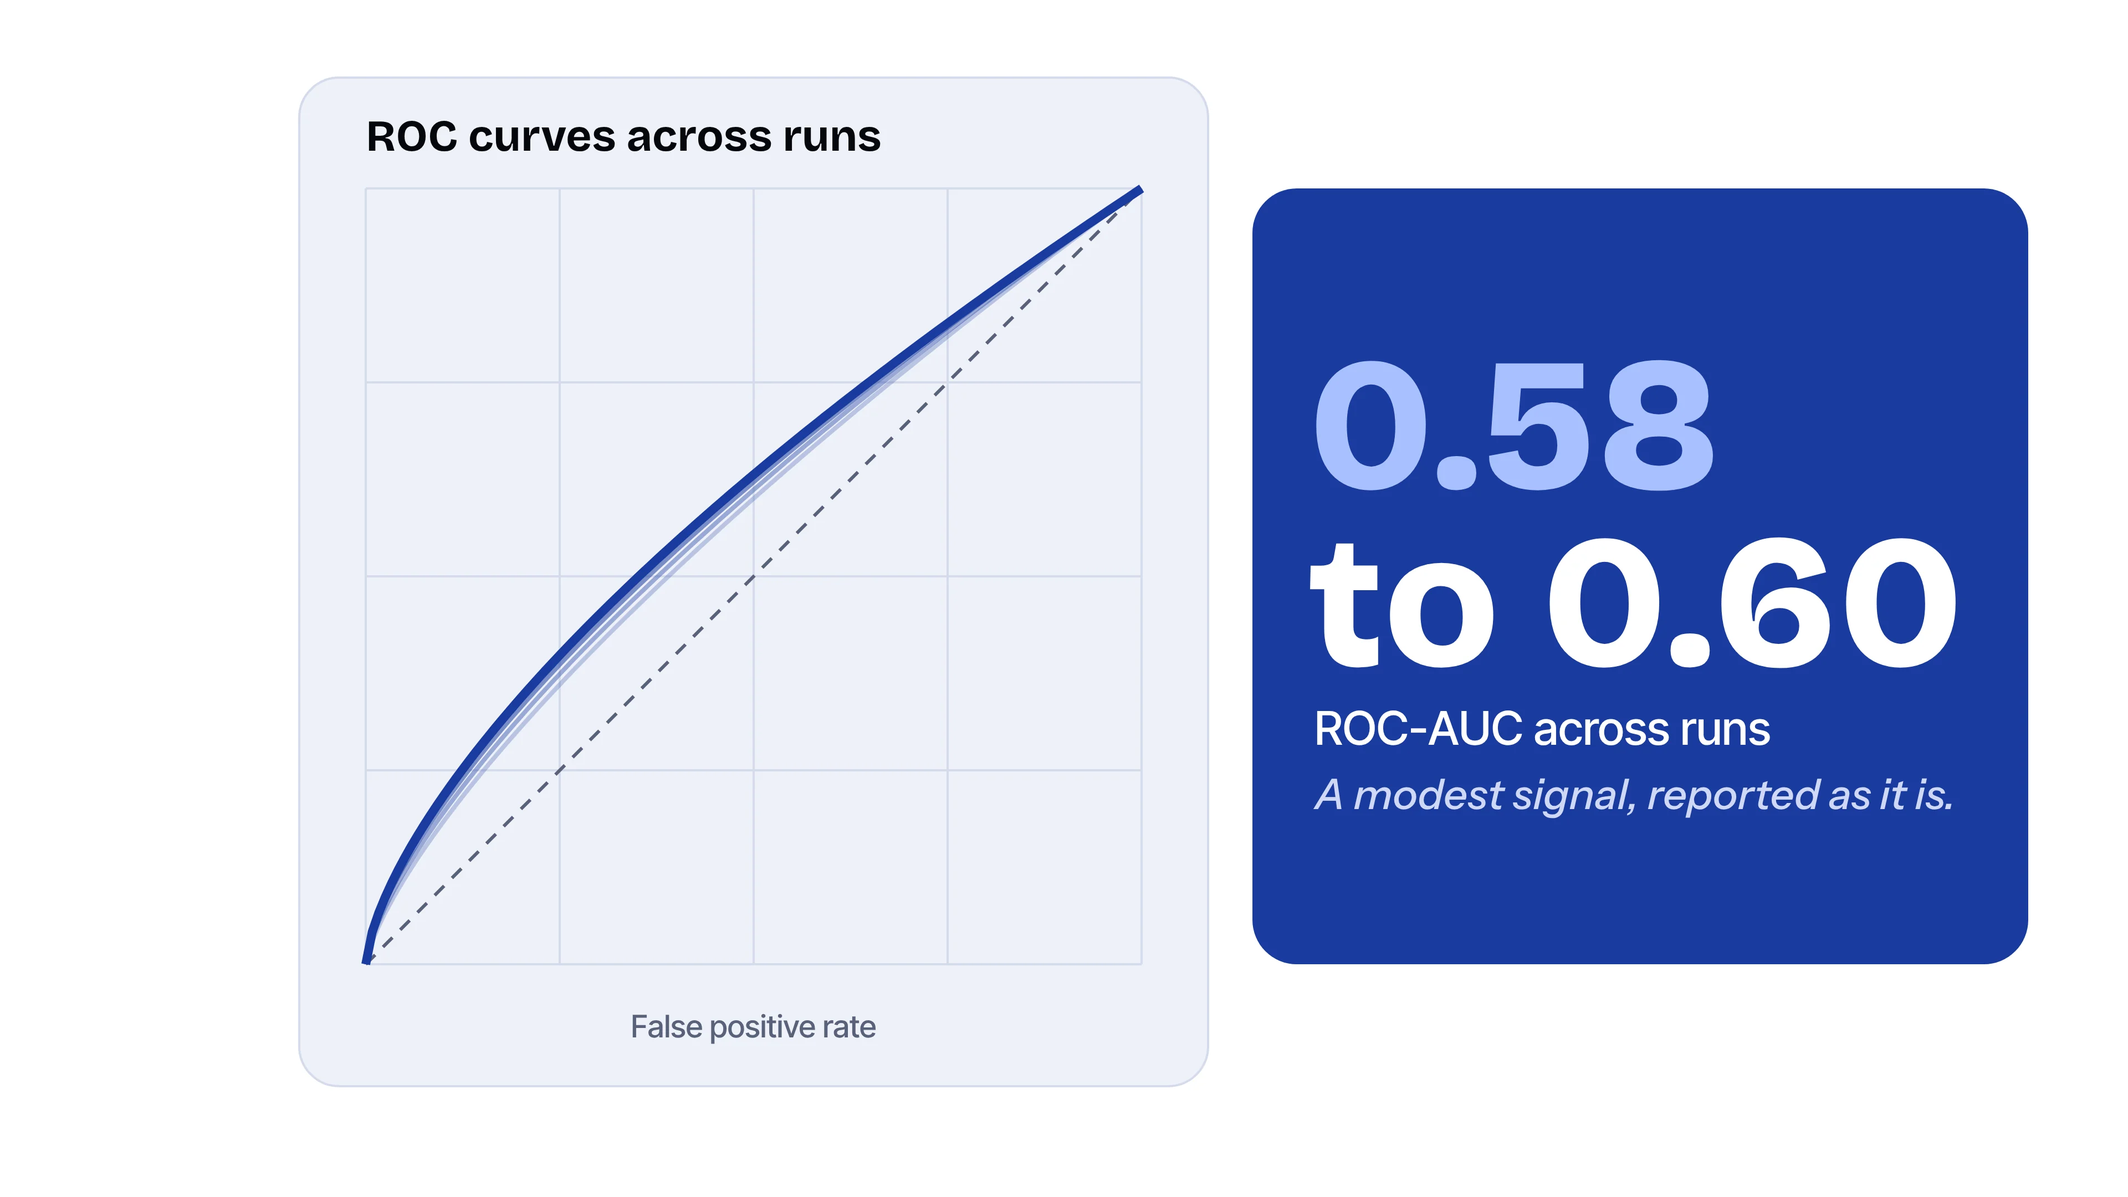
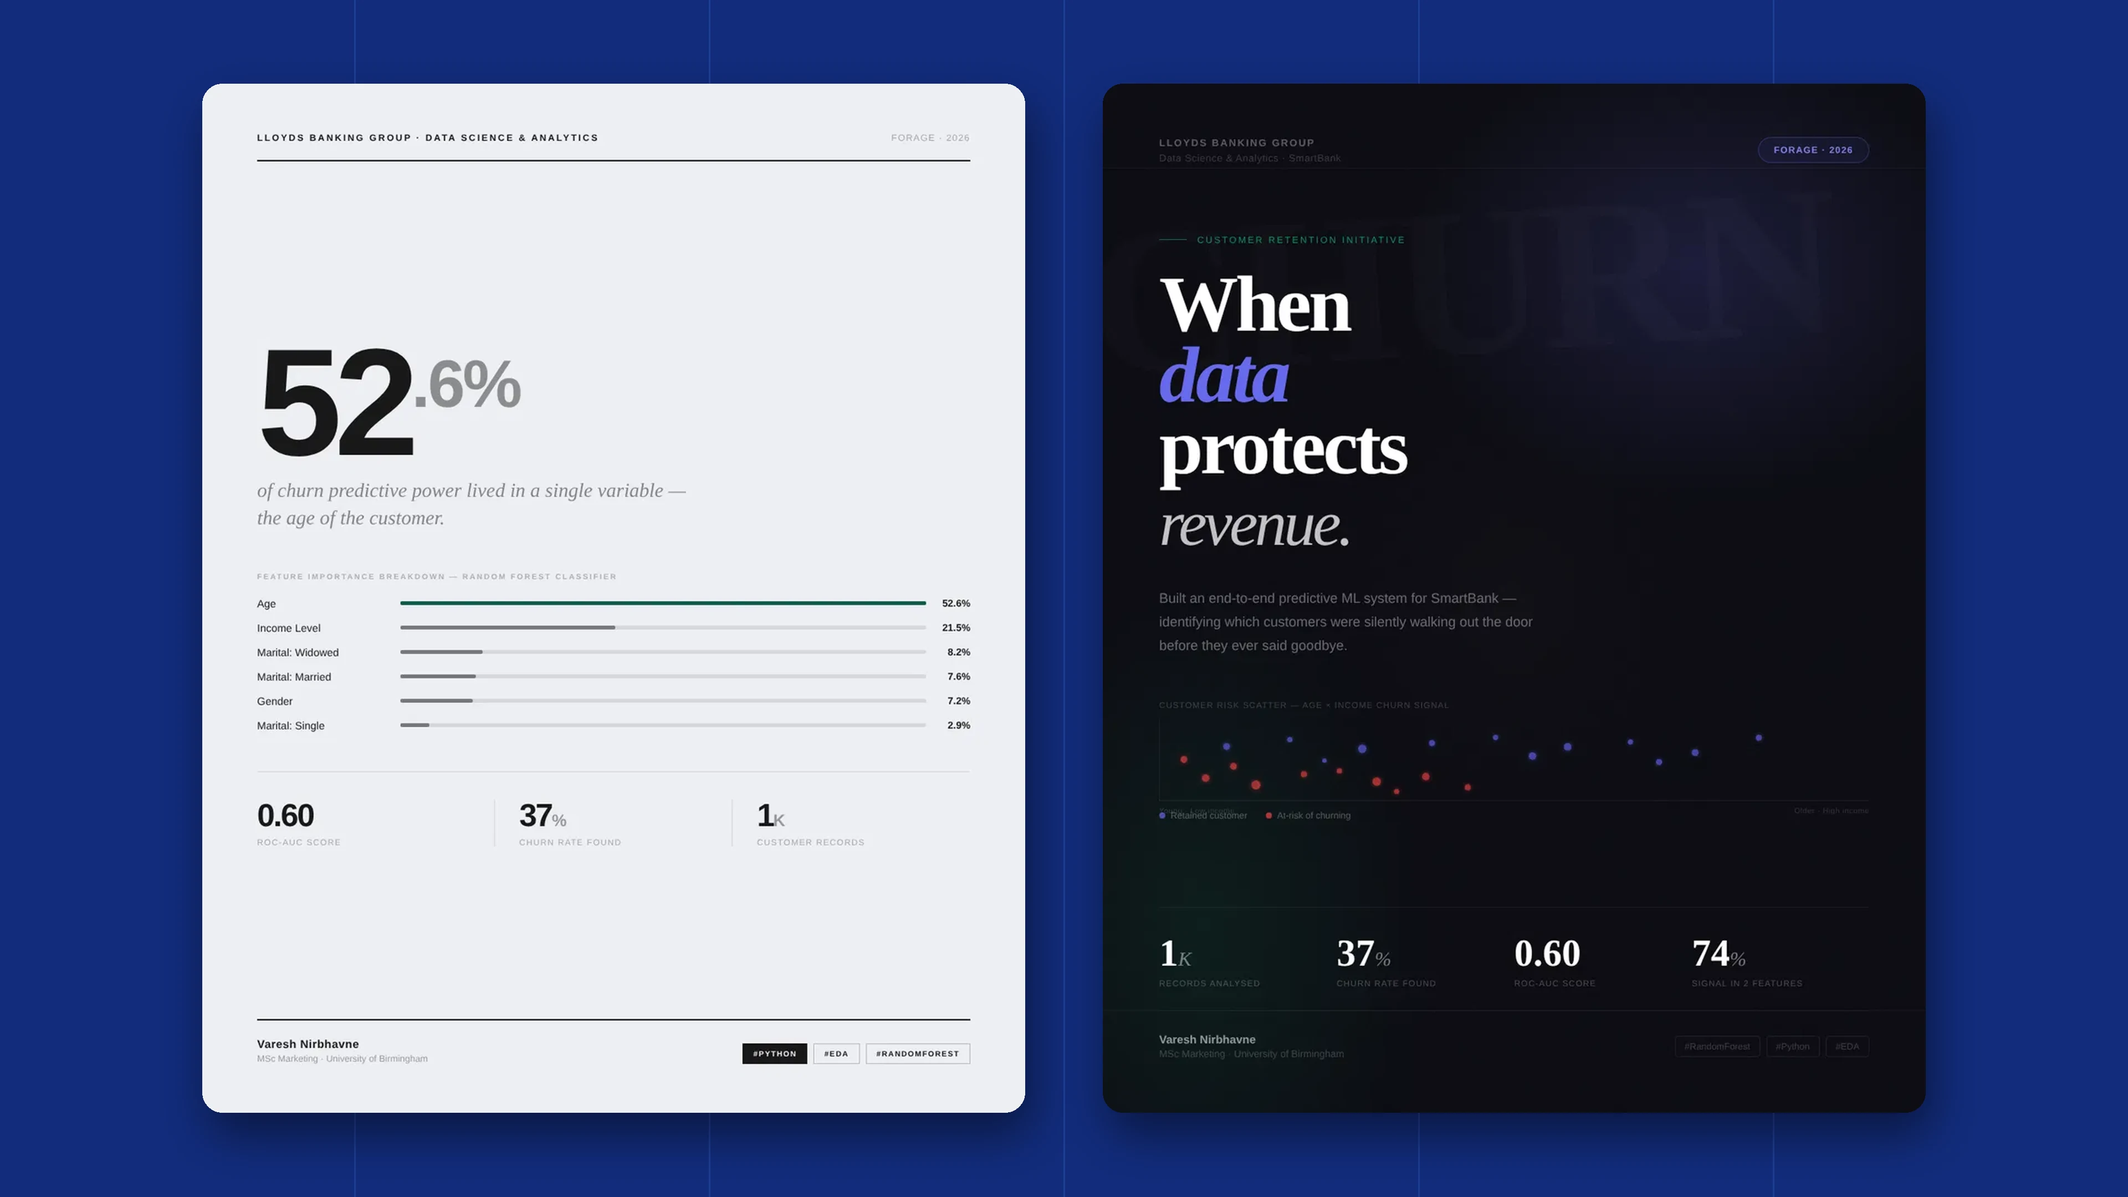
Use real Lloyds carousel slides, add BA certificate, correct 50m budget wording
Claude-Session: https://claude.ai/code/session_01HuEnPFYYzXcu2AzMyJQkWS

diff --git a/certifications.html b/certifications.html
@@ -53,7 +53,7 @@
 <section class="sec">
   <div class="wrap">
     <h2 class="h2" data-split>Certifications<em>.</em></h2>
-    <div class="certs" data-stagger><article class="cert"><div class="cert__img"><img src="assets/cert-google.webp" alt="Google Data Analytics Professional Certificate" loading="lazy"></div><span class="cert__type">Professional Certificate</span><h3>Google Data Analytics</h3><p class="cert__by">Google via Coursera, 5 Aug 2026</p><p>Nine courses covering the full analyst workflow, from asking the right question to cleaning, analysing and sharing data, with spreadsheets, SQL, Tableau and Python.</p><ul class="chips"><li>SQL</li><li>Python</li><li>Spreadsheets</li><li>Tableau</li><li>Data cleaning</li></ul></article><article class="cert"><span class="cert__type">Winner, team challenge</span><h3>Masters Consultancy Challenge 2026</h3><p class="cert__by">University of Birmingham with Turner &amp; Townsend, 3 Jul 2026</p><p>Part of Team Dynamite, the winning team in the most competitive year of the programme. The team proposed a fully costed, sustainable, future-ready research facility for the university.</p><ul class="chips"><li>Teamwork</li><li>Project management</li><li>Costing</li><li>Pitching</li></ul></article><article class="cert"><div class="cert__img"><img src="assets/cert-loreal.webp" alt="L&#x27;Oreal Brandstorm 2026 certificate of recognition" loading="lazy"></div><span class="cert__type">Recognition</span><h3>L&#x27;Oreal Brandstorm 2026</h3><p class="cert__by">L&#x27;Oreal, certificate of recognition</p><p>Took part in L&#x27;Oreal&#x27;s global youth innovation competition.</p><ul class="chips"><li>Innovation</li><li>Brand strategy</li></ul></article><article class="cert"><div class="cert__img"><img src="assets/cert-bcg.webp" alt="BCG Strategy Consulting job simulation certificate" loading="lazy"></div><span class="cert__type">Job simulation</span><h3>Strategy Consulting</h3><p class="cert__by">BCG via Forage, 1 Jun 2026</p><p>Market research, consumer survey design, financial modelling and data analysis, then summarising the findings for a client audience.</p><ul class="chips"><li>Market research</li><li>Survey design</li><li>Financial modelling</li><li>Data analysis</li></ul></article><article class="cert"><div class="cert__img"><img src="assets/cert-quantium.webp" alt="Quantium Data Analytics job simulation certificate" loading="lazy"></div><span class="cert__type">Job simulation</span><h3>Data Analytics</h3><p class="cert__by">Quantium via Forage, 23 May 2026</p><p>Data preparation and customer analytics, experimentation and uplift testing, then turning the analysis into a commercial recommendation.</p><ul class="chips"><li>Customer analytics</li><li>Uplift testing</li><li>Experimentation</li></ul></article><article class="cert"><div class="cert__img"><img src="assets/cert-lloyds.webp" alt="Lloyds Banking Group Data Science job simulation certificate" loading="lazy"></div><span class="cert__type">Job simulation</span><h3>Data Science</h3><p class="cert__by">Lloyds Banking Group via Forage, 24 May 2026</p><p>Data gathering and exploratory analysis, then building a machine learning model and framing the result for a business audience.</p><ul class="chips"><li>Python</li><li>EDA</li><li>Machine learning</li></ul></article><article class="cert"><span class="cert__type">Job simulation</span><h3>Data Analytics</h3><p class="cert__by">Deloitte via Forage, 2026</p><p>Worked a client-style dataset end to end, building a dashboard to spot the signal and classifying the data behind a business question.</p><ul class="chips"><li>Tableau</li><li>Excel</li><li>Data classification</li></ul></article><article class="cert"><span class="cert__type">Job simulation</span><h3>Data Science</h3><p class="cert__by">British Airways via Forage, 2026</p><p>Scraped and analysed customer reviews for sentiment, then built a predictive model to understand what drives a booking.</p><ul class="chips"><li>Python</li><li>Web scraping</li><li>Sentiment analysis</li><li>Modelling</li></ul></article></div>
+    <div class="certs" data-stagger><article class="cert"><div class="cert__img"><img src="assets/cert-google.webp" alt="Google Data Analytics Professional Certificate" loading="lazy"></div><span class="cert__type">Professional Certificate</span><h3>Google Data Analytics</h3><p class="cert__by">Google via Coursera, 5 Aug 2026</p><p>Nine courses covering the full analyst workflow, from asking the right question to cleaning, analysing and sharing data, with spreadsheets, SQL, Tableau and Python.</p><ul class="chips"><li>SQL</li><li>Python</li><li>Spreadsheets</li><li>Tableau</li><li>Data cleaning</li></ul></article><article class="cert"><span class="cert__type">Winner, team challenge</span><h3>Masters Consultancy Challenge 2026</h3><p class="cert__by">University of Birmingham with Turner &amp; Townsend, 3 Jul 2026</p><p>Part of Team Dynamite, the winning team in the most competitive year of the programme. The team proposed a fully costed, sustainable, future-ready research facility for the university.</p><ul class="chips"><li>Teamwork</li><li>Project management</li><li>Costing</li><li>Pitching</li></ul></article><article class="cert"><div class="cert__img"><img src="assets/cert-loreal.webp" alt="L&#x27;Oreal Brandstorm 2026 certificate of recognition" loading="lazy"></div><span class="cert__type">Recognition</span><h3>L&#x27;Oreal Brandstorm 2026</h3><p class="cert__by">L&#x27;Oreal, certificate of recognition</p><p>Took part in L&#x27;Oreal&#x27;s global youth innovation competition.</p><ul class="chips"><li>Innovation</li><li>Brand strategy</li></ul></article><article class="cert"><div class="cert__img"><img src="assets/cert-bcg.webp" alt="BCG Strategy Consulting job simulation certificate" loading="lazy"></div><span class="cert__type">Job simulation</span><h3>Strategy Consulting</h3><p class="cert__by">BCG via Forage, 1 Jun 2026</p><p>Market research, consumer survey design, financial modelling and data analysis, then summarising the findings for a client audience.</p><ul class="chips"><li>Market research</li><li>Survey design</li><li>Financial modelling</li><li>Data analysis</li></ul></article><article class="cert"><div class="cert__img"><img src="assets/cert-quantium.webp" alt="Quantium Data Analytics job simulation certificate" loading="lazy"></div><span class="cert__type">Job simulation</span><h3>Data Analytics</h3><p class="cert__by">Quantium via Forage, 23 May 2026</p><p>Data preparation and customer analytics, experimentation and uplift testing, then turning the analysis into a commercial recommendation.</p><ul class="chips"><li>Customer analytics</li><li>Uplift testing</li><li>Experimentation</li></ul></article><article class="cert"><div class="cert__img"><img src="assets/cert-lloyds.webp" alt="Lloyds Banking Group Data Science job simulation certificate" loading="lazy"></div><span class="cert__type">Job simulation</span><h3>Data Science</h3><p class="cert__by">Lloyds Banking Group via Forage, 24 May 2026</p><p>Data gathering and exploratory analysis, then building a machine learning model and framing the result for a business audience.</p><ul class="chips"><li>Python</li><li>EDA</li><li>Machine learning</li></ul></article><article class="cert"><span class="cert__type">Job simulation</span><h3>Data Analytics</h3><p class="cert__by">Deloitte via Forage, 2026</p><p>Worked a client-style dataset end to end, building a dashboard to spot the signal and classifying the data behind a business question.</p><ul class="chips"><li>Tableau</li><li>Excel</li><li>Data classification</li></ul></article><article class="cert"><div class="cert__img"><img src="assets/cert-ba.webp" alt="British Airways Data Science job simulation certificate of completion, 9 May 2026" loading="lazy"></div><span class="cert__type">Job simulation</span><h3>Data Science</h3><p class="cert__by">British Airways via Forage, 2026</p><p>Modelled lounge eligibility at Heathrow Terminal 3 and predicted customer buying behaviour. Completed 9 May 2026.</p><ul class="chips"><li>Python</li><li>Modelling</li><li>Customer behaviour</li></ul></article></div>
   </div>
 </section>
 <a class="next" href="tools.html" data-label="Tools" ><small>Next</small><strong>Try the tools</strong></a>

diff --git a/project-lloyds.html b/project-lloyds.html
@@ -43,12 +43,12 @@
 </section>
 <section class="sec">
   <div class="wrap">
-    <figure class="shot" data-img-in><img src="assets/lloyds.webp" alt="Illustrative visual: ROC curves above a diagonal baseline" width="3840" height="2160"><figcaption>Illustrative visual, drawn for this page. Not a screenshot of the real dashboard.</figcaption></figure>
-    
+    <figure class="shot" data-img-in><img src="assets/lloyds.webp" alt="The two LinkedIn carousel slides from the churn project, one light and one dark" width="3840" height="2160"><figcaption>The two LinkedIn carousel slides from the project, shown as published.</figcaption></figure>
+    <ul class="pmetrics" data-stagger><li><b>37%</b><span>churn rate in the 1K customer records</span></li><li><b>52.6%</b><span>of feature importance sits in age</span></li><li><b>0.60</b><span>ROC-AUC, honest and modest</span></li></ul>
     <div class="pcols" data-stagger>
       <div><h3>The question</h3><p>Which customers are most at risk of churning, and how much can a model genuinely tell us?</p></div>
       <div><h3>What I did</h3><ul><li>Prepared the customer data with BigQuery SQL.</li><li>Trained a Random Forest classifier to estimate churn risk.</li><li>Built Tableau views to show risk across customer groups.</li><li>Packaged the results as LinkedIn carousel assets.</li></ul></div>
-      <div><h3>What I found</h3><ul><li>ROC-AUC landed between 0.576 and 0.601 across runs.</li><li>That is only a little better than chance, so the model is useful for ranking risk, not for confident calls on a single customer.</li></ul></div>
+      <div><h3>What I found</h3><ul><li>ROC-AUC landed between 0.576 and 0.601 across runs.</li><li>Age alone carried 52.6% of feature importance, and age plus income carried about 74% of the signal.</li><li>That is only a little better than chance, so the model is useful for ranking risk, not for confident calls on a single customer.</li></ul></div>
     </div>
     <div class="pnote" data-reveal><h3>Why I show it anyway</h3><p>I would rather show a modest result clearly than dress it up. The sensible next step is better features and a cost-based view of which customers are worth contacting. Completed through the Lloyds Banking Group Data Science virtual experience on Forage. Not affiliated with or endorsed by Lloyds Banking Group.</p></div>
     <ul class="chips pchips"><li>Random Forest</li><li>BigQuery SQL</li><li>Tableau</li><li>Churn analysis</li></ul>

diff --git a/experience.html b/experience.html
@@ -47,7 +47,7 @@
         <h3>Strategic Consultant, Challenge Winner</h3>
         <p class="job__org">Turner &amp; Townsend</p>
         <p class="job__ctx">Part of the winning team in the University of Birmingham Masters Consultancy Challenge, run with Turner &amp; Townsend.</p>
-        <ul class="job__pts"><li>Built the <b>financial model behind a £50m infrastructure strategy</b>, checking every input and assumption so the logic survived live challenge.</li><li>Presented findings and recommendations to <b>senior partners</b> and fielded Q&amp;A, translating dense analysis for a mixed audience.</li><li>Beat competing university teams to <b>first place</b> on the strength of the numbers, not the slides.</li></ul>
+        <ul class="job__pts"><li>Built the <b>financial model for a fully costed research facility proposal</b> within a £50m budget constraint, checking every input and assumption so the logic survived live challenge.</li><li>Presented findings and recommendations to <b>senior partners</b> and fielded Q&amp;A, translating dense analysis for a mixed audience.</li><li>Beat competing university teams to <b>first place</b> on the strength of the numbers, not the slides.</li></ul>
         <ul class="chips"><li>Financial modelling</li><li>Excel</li><li>Scenario analysis</li><li>Stakeholder communication</li></ul>
       </div>
     </article>

diff --git a/index.html b/index.html
@@ -136,7 +136,7 @@
         <div><h3 class="scard__title">Customer churn model</h3><p class="scard__short">Predicting who leaves a bank, honestly</p></div>
         <div class="scard__foot"><span class="scard__tools">BigQuery SQL, Random Forest, Tableau</span><span class="scard__go">View case study <span aria-hidden="true">&nearr;</span></span></div>
       </div>
-      <div class="scard__img"><img src="assets/lloyds.webp" alt="Illustrative visual: ROC curves above a diagonal baseline" width="3840" height="2160" loading="lazy"></div>
+      <div class="scard__img"><img src="assets/lloyds.webp" alt="The two LinkedIn carousel slides from the churn project, one light and one dark" width="3840" height="2160" loading="lazy"></div>
     </a><a class="scard scard--1" style="--i:4" href="project-quantium.html" data-label="Did the trial stores really lift sales?">
       <div class="scard__copy">
         <span class="scard__no">05<small>/ 06</small></span>

diff --git a/projects.html b/projects.html
@@ -86,7 +86,7 @@
       <span class="prow__thumb"><img src="assets/starbucks.webp" alt="" loading="lazy"></span>
     </a>
     </div>
-    <p class="sec-note">The Revolut, F1 and Netflix pages show visuals from the real work. The Lloyds, Quantium and Starbucks pages use illustrative artwork, and each one is labelled as such.</p>
+    <p class="sec-note">The Revolut, F1, Netflix and Lloyds pages show visuals from the real work. The Quantium and Starbucks pages use illustrative artwork, and each one is labelled as such.</p>
   </div>
 </section>
 <a class="next" href="about.html" data-label="About" ><small>Next</small><strong>About me</strong></a>

diff --git a/build.py b/build.py
@@ -102,8 +102,8 @@ PROJECTS = [
     dict(
         slug="lloyds", theme="green", title="Customer churn model", short="Predicting who leaves a bank, honestly",
         tools="BigQuery SQL, Random Forest, Tableau", year="2026", status="Completed", done=True,
-        img="assets/lloyds.webp", alt="Illustrative visual: ROC curves above a diagonal baseline", tall=False,
-        cap="Illustrative visual, drawn for this page. Not a screenshot of the real dashboard.",
+        img="assets/lloyds.webp", alt="The two LinkedIn carousel slides from the churn project, one light and one dark", tall=False,
+        cap="The two LinkedIn carousel slides from the project, shown as published.",
         lede="Predicting who will leave a bank is a ranking problem more than a prediction problem. This project treats it that way, and is honest about how much the model can say.",
         q="Which customers are most at risk of churning, and how much can a model genuinely tell us?",
         did=[
@@ -114,9 +114,10 @@ PROJECTS = [
         ],
         found=[
             "ROC-AUC landed between 0.576 and 0.601 across runs.",
+            "Age alone carried 52.6% of feature importance, and age plus income carried about 74% of the signal.",
             "That is only a little better than chance, so the model is useful for ranking risk, not for confident calls on a single customer.",
         ],
-        metrics=[],
+        metrics=[("37%", "churn rate in the 1K customer records"), ("52.6%", "of feature importance sits in age"), ("0.60", "ROC-AUC, honest and modest")],
         note_h="Why I show it anyway",
         note="I would rather show a modest result clearly than dress it up. The sensible next step is better features and a cost-based view of which customers are worth contacting. Completed through the Lloyds Banking Group Data Science virtual experience on Forage. Not affiliated with or endorsed by Lloyds Banking Group.",
         tags=["Random Forest", "BigQuery SQL", "Tableau", "Churn analysis"],
@@ -169,7 +170,7 @@ PROJECTS = [
 JOBS = [
     dict(when="Jun to Jul 2026", place="Birmingham", role="Strategic Consultant, Challenge Winner", org="Turner & Townsend",
          ctx="Part of the winning team in the University of Birmingham Masters Consultancy Challenge, run with Turner & Townsend.",
-         pts=["Built the <b>financial model behind a £50m infrastructure strategy</b>, checking every input and assumption so the logic survived live challenge.",
+         pts=["Built the <b>financial model for a fully costed research facility proposal</b> within a £50m budget constraint, checking every input and assumption so the logic survived live challenge.",
               "Presented findings and recommendations to <b>senior partners</b> and fielded Q&amp;A, translating dense analysis for a mixed audience.",
               "Beat competing university teams to <b>first place</b> on the strength of the numbers, not the slides."],
          chips=["Financial modelling", "Excel", "Scenario analysis", "Stakeholder communication"]),
@@ -219,9 +220,9 @@ CERTS = [
     dict(type="Job simulation", title="Data Analytics", by="Deloitte via Forage, 2026", img="", alt="",
          text="Worked a client-style dataset end to end, building a dashboard to spot the signal and classifying the data behind a business question.",
          chips=["Tableau", "Excel", "Data classification"]),
-    dict(type="Job simulation", title="Data Science", by="British Airways via Forage, 2026", img="", alt="",
-         text="Scraped and analysed customer reviews for sentiment, then built a predictive model to understand what drives a booking.",
-         chips=["Python", "Web scraping", "Sentiment analysis", "Modelling"]),
+    dict(type="Job simulation", title="Data Science", by="British Airways via Forage, 2026", img="assets/cert-ba.webp", alt="British Airways Data Science job simulation certificate of completion, 9 May 2026",
+         text="Modelled lounge eligibility at Heathrow Terminal 3 and predicted customer buying behaviour. Completed 9 May 2026.",
+         chips=["Python", "Modelling", "Customer behaviour"]),
 ]
 
 MARQUEE = ["SQL", "Python", "Tableau", "Power BI", "Excel", "Campaign ROI", "Uplift modelling", "Churn analysis", "A/B testing", "Paid social", "Email and CRM"]
@@ -442,7 +443,7 @@ def projects_page():
 <section class="sec">
   <div class="wrap">
     <div class="plist">{rows}</div>
-    <p class="sec-note">The Revolut, F1 and Netflix pages show visuals from the real work. The Lloyds, Quantium and Starbucks pages use illustrative artwork, and each one is labelled as such.</p>
+    <p class="sec-note">The Revolut, F1, Netflix and Lloyds pages show visuals from the real work. The Quantium and Starbucks pages use illustrative artwork, and each one is labelled as such.</p>
   </div>
 </section>
 {nextlink("about.html", "About", "About me")}'''
